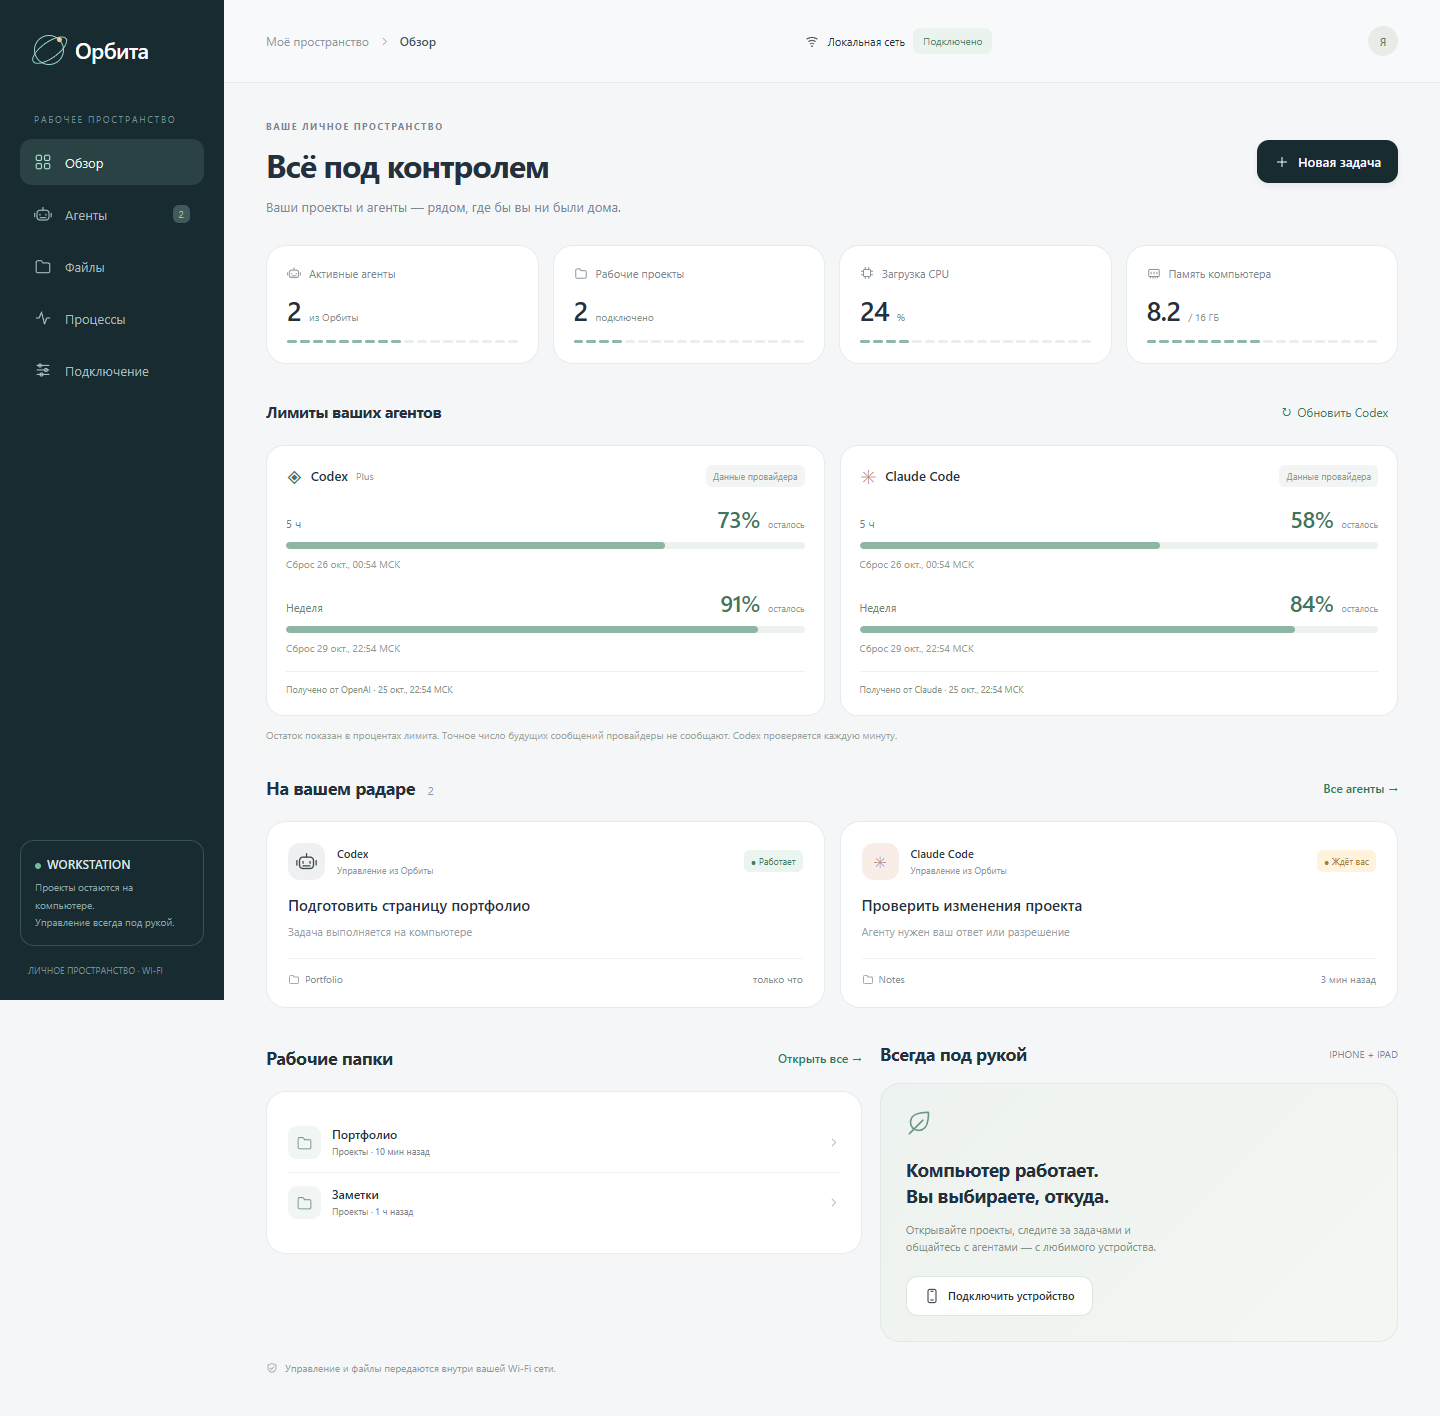
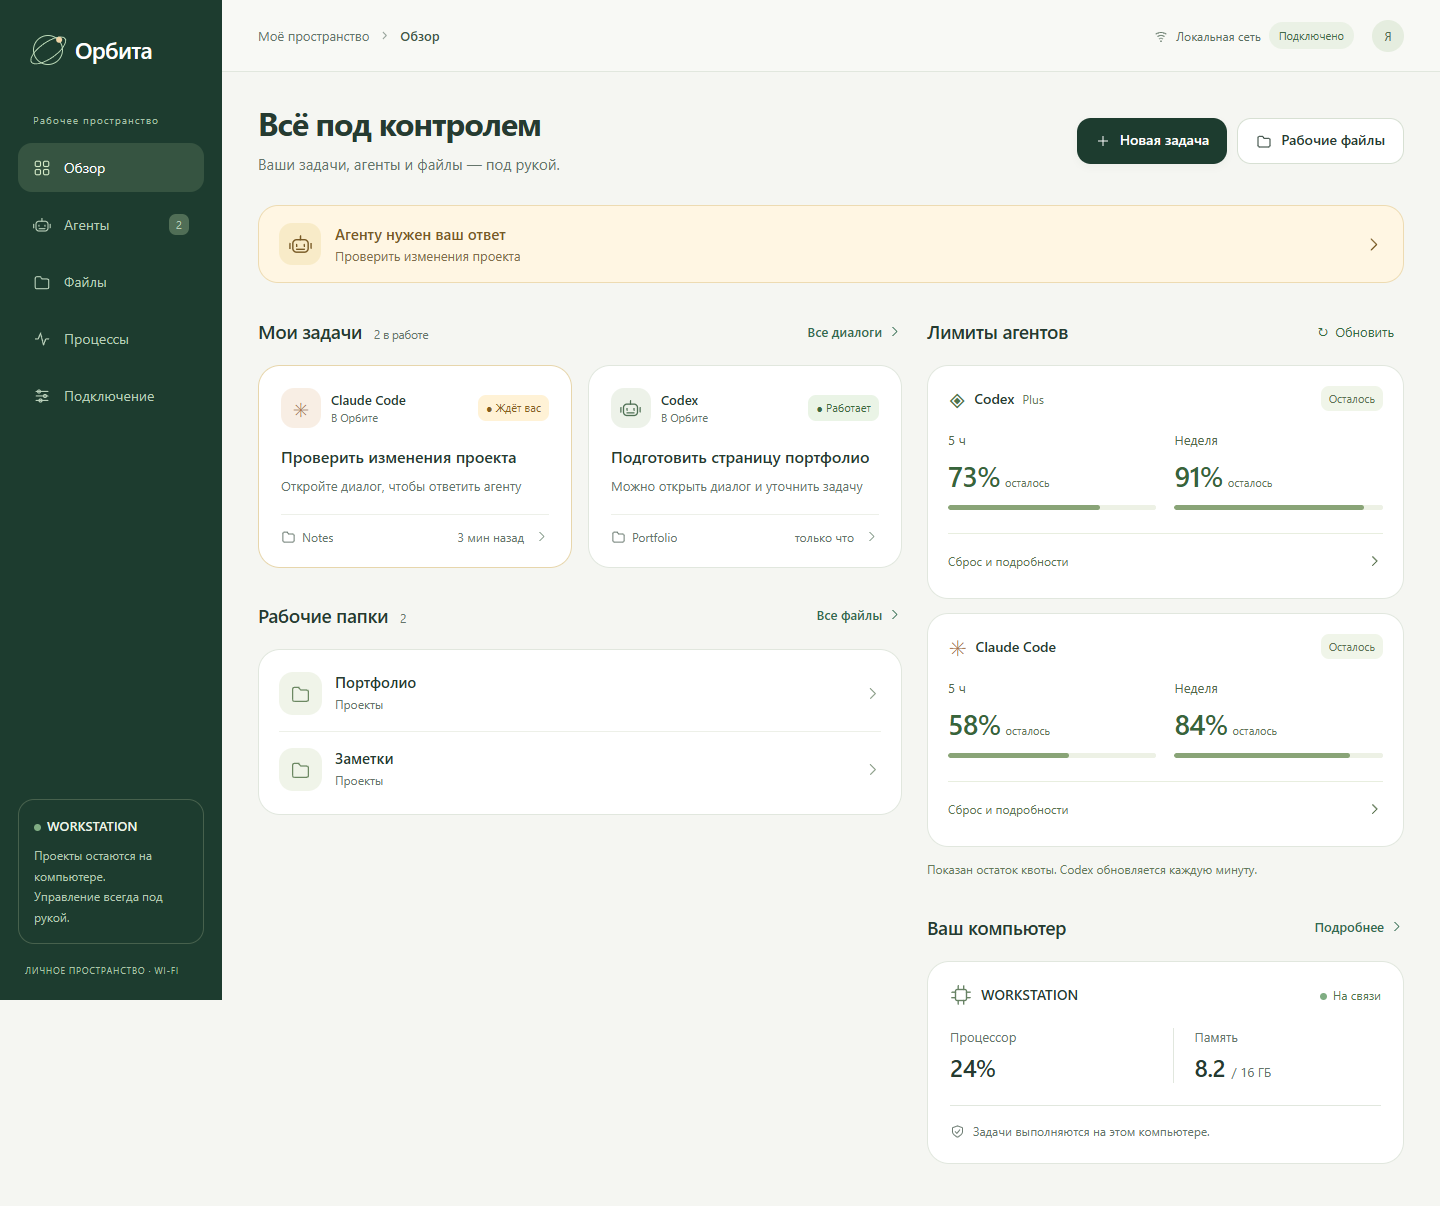
docs: refresh mobile interface guide and previews

diff --git a/README.md b/README.md
@@ -25,6 +25,7 @@
 
 ## Возможности
 
+- **На телефоне:** нижняя навигация, кнопки от 44 px, диалог на весь экран и черновики при переходах. Лимиты видны на главной и компактной строкой в переписке.
 - **Codex и Claude Code:** новые сессии в выбранной папке, сообщения, ответы, запросы разрешений и остановка задач из Орбиты. Для Codex доступны поток ответа и уточнения выполняемой задачи.
 - **История Codex / VS Code:** просмотр существующих диалогов и продолжение отдельной веткой. Сервис не перехватывает канал управления открытого расширения.
 - **Лимиты:** остаток квоты Codex по каждому окну, время сброса по Москве, дополнительные кредиты и доступные сбросы. Для Claude — сведения из событий официального SDK, когда провайдер их передаёт.

diff --git a/CHANGELOG.md b/CHANGELOG.md
@@ -2,6 +2,14 @@
 
 ## Unreleased
 
+### Mobile interface
+
+- Calm colors, readable type, larger touch controls and task-first home screen.
+- Full-screen phone conversations, viewport-aware composer and in-memory drafts across navigation.
+- Stable search focus, preserved live tool disclosures and answers while messages stream.
+- Compact quota summaries with expandable reset details; process cards on small screens.
+- Browser coverage for 320–1440px, landscape, reduced viewport height, drafts, send and stop.
+
 ### Initial public source
 
 - Local Windows service with HTTPS enrollment, one-time device pairing and revocation.
